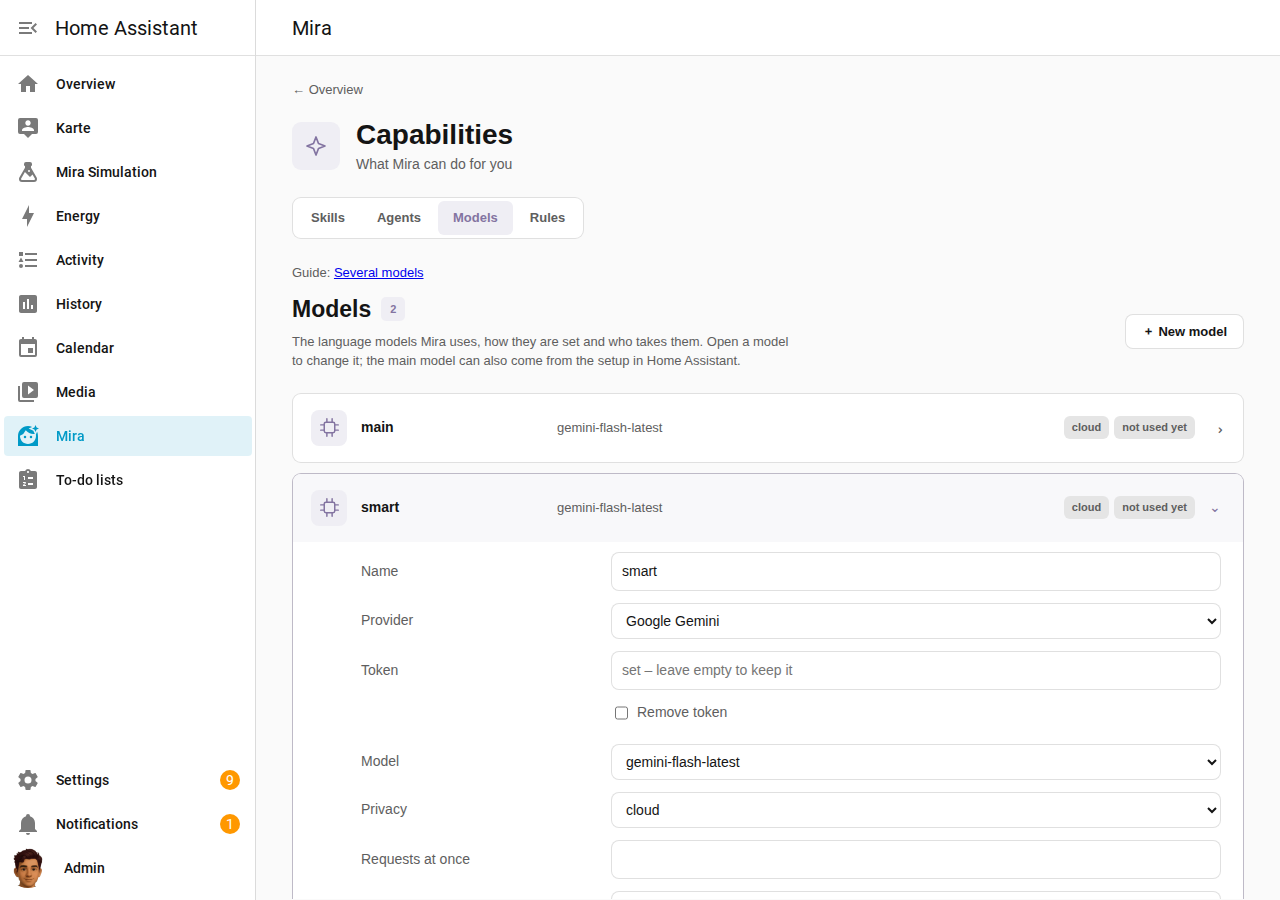
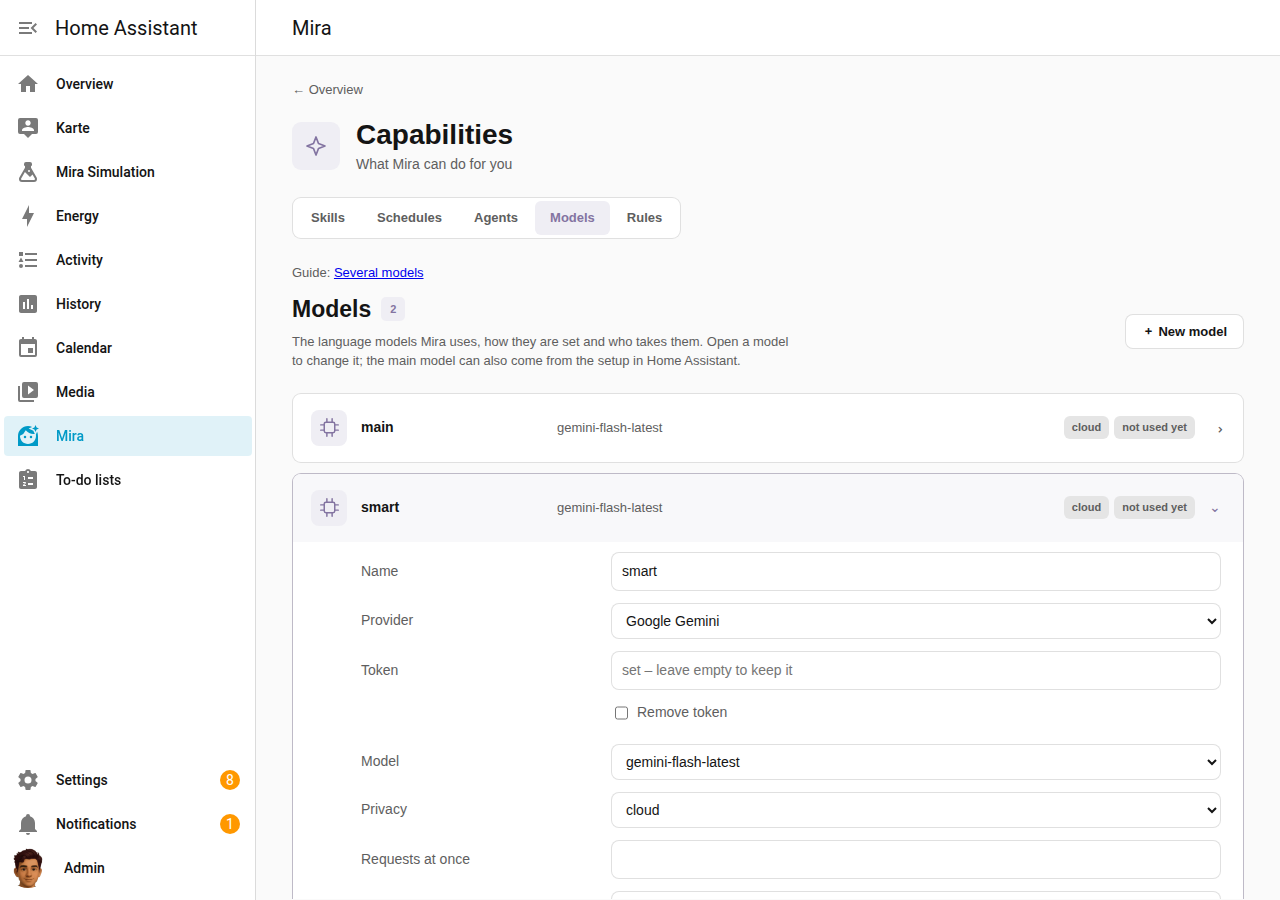
0.15.0: schedules page, backup and restore, several satellites per room
The guide gets the chapter "Schedules", the schedules of one's own skills
(name, description), the briefing's time on the page, the station's logo
on TECHO5, and new screenshots of the pages under Capabilities; the page
"Schedules" links its chapter. The example config shows a schedule's own
time. The specs say what 0.15.0 released.

diff --git a/internal/ui/index.html b/internal/ui/index.html
@@ -672,7 +672,7 @@ const I18N = {
   "page_chapters": { me: "## Wer spricht", messages: "## Mira meldet sich", tasks: "## Mira passt aufs Haus auf",
     plans: "### Ein Ablauf Schritt für Schritt", memory: "## Mira merkt sich", rooms: "## Einrichtung",
     persons: "## Wer spricht", notifier: "## Mira meldet sich", skills: "## Skills:", agents: "### Eigene Agenten",
-    models: "## Mehrere Modelle", hooks: "## Eigene Regeln" },
+    models: "## Mehrere Modelle", hooks: "## Eigene Regeln", schedules: "## Zeitplan:" },
   "home_satellites": n => n === 1 ? "1 Satellit" : `${n} Satelliten`,
   "home_persons": n => n === 1 ? "1 Person" : `${n} Personen`,
   "home_quiet": (a, b) => `Ruhezeit ${a}–${b}`,
@@ -1155,7 +1155,7 @@ const I18N = {
   "page_chapters": { me: "## Who is speaking", messages: "## Mira speaks up", tasks: "## Mira looks after the house",
     plans: "### A run step by step", memory: "## Mira remembers", rooms: "## Setup",
     persons: "## Who is speaking", notifier: "## Mira speaks up", skills: "## Skills:", agents: "### Your own agents",
-    models: "## Several models", hooks: "## Rules of your own" },
+    models: "## Several models", hooks: "## Rules of your own", schedules: "## Schedules:" },
   "home_satellites": n => n === 1 ? "1 satellite" : `${n} satellites`,
   "home_persons": n => n === 1 ? "1 person" : `${n} people`,
   "home_quiet": (a, b) => `Quiet hours ${a}–${b}`,

diff --git a/custom_components/mira/const.py b/custom_components/mira/const.py
@@ -4,7 +4,7 @@ DOMAIN = "mira"
 # The version of the code that runs: Home Assistant imports an integration
 # once, at start, so after files are replaced only a restart changes it.
 # Kept equal to manifest.json.
-VERSION = "0.14.1"
+VERSION = "0.15.0"
 
 CONF_PERSONA = "persona"
 # Mira's own web search, switched at the agent (docs/spec/web-search.md).

diff --git a/cmd/mira/main.go b/cmd/mira/main.go
@@ -24,7 +24,7 @@ import (
 // version is Mira's version: raised with every change that goes live, so
 // the web UI and /v1/health show at once which build runs. A release build
 // may still set it with -ldflags "-X main.version=...".
-var version = "0.14.1"
+var version = "0.15.0"
 
 func main() {
 	if err := run(); err != nil {

diff --git a/docs/guide/de.md b/docs/guide/de.md
@@ -201,6 +201,7 @@ Skills sind Zusatzfähigkeiten, die die Einrichtung freischaltet. Mira öffnet e
 - Morgens stellt Mira zusammen, was heute ist: Wetter, Termine, Müllabfuhr und, wenn du Themen angibst, zwei Schlagzeilen. Sie sagt es an, wenn das erste Mal jemand in einen Raum mit „beim Hereinkommen ansagen“ kommt, sonst leuchtet die Anzeige oder sie erwähnt es nebenbei. Abends kommt dasselbe für morgen, aber nur, wenn morgen etwas ansteht.
 - **Dein eigenes Briefing:** Erreicht Mira dich persönlich (dein Handy oder Telegram unter „Konfigurieren → Personen“, oder „allein zu Hause bin ich“), bekommst du morgens zusätzlich eine eigene Nachricht. Darin stehen deine Termine von heute, wenn du einen eigenen Kalender hast (einer, der so heißt wie dein Login-Name in Home Assistant oder wie du als Person; bei Login `stefan` also „Stefan“), und zwei Schlagzeilen zu deinen Themen, wenn Mira sie kennt: „Merk dir, mich interessieren der KSC und E-Autos.“ Hast du weder Termine noch Themen, kommt nichts.
 - „Was steht heute an?“ – „Was ist morgen los?“ – „Gib mir mein Briefing.“ Auf Nachfrage nimmt Mira auch deinen eigenen Kalender dazu, wenn sie weiß, wer spricht.
+- Wann die Briefings kommen, stellst du unter **Fähigkeiten → Zeitplan** ein (siehe „Zeitplan“).
 - In `mira.yaml` stehen beim Skill `briefing` die Kalender fürs Haus (`kalender`) und die Nachrichten-Themen (`themen`). Ohne `kalender` nimmt das Haus-Briefing alle freigegebenen Kalender, auch persönliche, und das ganze Haus hört deren Termine.
 
 **Pakete**: Mira liest die Versandmails der Paketdienste und weiß, wann welches Paket kommt.
@@ -295,6 +296,19 @@ sequence:
     response_variable: antwort
 ```
 
+## Zeitplan: was Mira von selbst tut
+
+Manche Skills melden sich zu festen Zeiten von selbst: das Morgen-Briefing um 5:30, die Müllabfuhr am Vorabend um 18 Uhr, die Unwetterwarnungen jede Stunde. Dazu kommt Miras eigener Job, der nachts aus dem Gedächtnis die Profile neu baut. Alles steht an einer Stelle: **Fähigkeiten → Zeitplan** (nur für Admins).
+
+![Fähigkeiten → Zeitplan: jeder Zeitplan mit Zeit und Schalter; aufgeklappt der letzte und der nächste Lauf, die Uhrzeit mit Wochentagen und „Jetzt ausführen“](img/mira-zeitplan-de.png)
+
+- **Jeder Zeitplan ist eine Karte**, sortiert nach Skill, Miras eigene zuletzt. Zugeklappt siehst du, was er tut, wann („Mo–Fr 06:45“, „stündlich“), wie der letzte Lauf ausging (✓ oder ✗ mit Uhrzeit) und den Schalter für an und aus.
+- **Aufgeklappt** stehen dort der **letzte Lauf** (erledigt mit dem, was Mira sagen wird, „nichts zu melden“ oder der Fehler; beim persönlichen Briefing für jede Person), der **nächste Lauf**, die **Uhrzeit mit den Wochentagen** zum Ändern und **Jetzt ausführen**, um ihn sofort auszuprobieren. Ein zweiter Lauf am selben Tag ersetzt die Nachricht des ersten, statt eine zweite zu schicken. Der Name des Skills führt zu seiner Karte unter **Skills**.
+- **Eine Änderung gilt sofort**, ohne Neustart. Sie steht in der `mira.yaml` beim Skill unter `schedules`, etwa `briefing: { schedules: { morgen: { cron: "45 6 * * 1-5" } } }`; ein ausgeschalteter Zeitplan hat dort `enabled: false` und behält seine Zeit. Ohne Eintrag gilt die Zeit des Skills, so bringt ein Update des Skills seine neue Zeit mit.
+- **Miras eigene Zeitpläne** lassen sich verschieben, aber nicht ausschalten.
+- Eine Zeit wie „jede Stunde“ lässt sich hier nicht als Uhrzeit einstellen; sie steht in Worten da, ändern geht nur in der `mira.yaml`. Ausschalten geht trotzdem.
+- Bei einem Skill unter **Skills** steht bei jedem Zeitplan **Ändern**; das führt hierher.
+
 ## Eigenen Skill erstellen
 
 Ein Skill ist ein Ordner mit einer Datei `SKILL.md`. Darin steht eine Anleitung für Mira, auf Wunsch mit Einstellungen und Zeitplänen. Ein Skill führt keinen Programmcode aus; er sagt Mira nur, was sie wann und womit tun soll, mit den Werkzeugen, die sie ohnehin hat (Kalender lesen, Nachrichten, Haussteuerung und so weiter).
@@ -307,7 +321,7 @@ Ein Skill ist ein Ordner mit einer Datei `SKILL.md`. Darin steht eine Anleitung 
 - `description`: ein Satz, wann der Skill gebraucht wird. Mehr sieht Mira nicht, bis sie den Skill öffnet; ist der Satz gut, öffnet sie ihn zur rechten Zeit.
 - Optional unter `metadata:` → `mira:`:
   - `settings`: Angaben, die jeder Haushalt selbst einträgt, jeweils mit einer `description` (die erscheint auch in Fehlermeldungen) und `required: true`, wenn der Skill ohne sie nicht arbeiten kann.
-  - `schedules`: Aufgaben nach Zeitplan. `cron` ist die Zeit (fünf Felder, zum Beispiel `0 10 * * 0` für sonntags um 10 Uhr), `task` ist, was Mira dann tun soll. Das Ergebnis ist entweder nichts (`importance: 0`, `spoken` leer) oder eine kurze Nachricht an das Haus. Mit `per_person: true` läuft die Aufgabe einmal für jede Person, die Mira persönlich erreicht (eigener Kanal oder „allein zu Hause bin ich“). Eingesetzt werden `{{person}}` (der Name), `{{person_login}}` (der Login-Name in Home Assistant, „-“ ohne) und `{{person_calendar}}` (der Kalender, der so heißt wie der Login-Name oder die Person; „-“ ohne). Mira gibt dazu, was sie über die Person weiß, und die Nachricht geht an diese Person statt ans Haus. Eine Nachricht aus einem Zeitplan ist höchstens „wichtig“ (2) und wartet nachts bis zum Morgen. Mit `urgent: true` darf der Zeitplan „dringend“ (3) melden: Das geht sofort an alle, auch in der Ruhezeit. Nimm das nur, wo es wirklich darauf ankommt, wie bei amtlichen Unwetterwarnungen.
+  - `schedules`: Aufgaben nach Zeitplan. `name` ist ein kurzer, fester Name (`morgen`) und `description` ein paar Worte für die Seite; mit `name` lässt sich der Zeitplan unter **Zeitplan** ändern und ausschalten. `cron` ist die Zeit (fünf Felder, zum Beispiel `0 10 * * 0` für sonntags um 10 Uhr), `task` ist, was Mira dann tun soll. Das Ergebnis ist entweder nichts (`importance: 0`, `spoken` leer) oder eine kurze Nachricht an das Haus. Mit `per_person: true` läuft die Aufgabe einmal für jede Person, die Mira persönlich erreicht (eigener Kanal oder „allein zu Hause bin ich“). Eingesetzt werden `{{person}}` (der Name), `{{person_login}}` (der Login-Name in Home Assistant, „-“ ohne) und `{{person_calendar}}` (der Kalender, der so heißt wie der Login-Name oder die Person; „-“ ohne). Mira gibt dazu, was sie über die Person weiß, und die Nachricht geht an diese Person statt ans Haus. Eine Nachricht aus einem Zeitplan ist höchstens „wichtig“ (2) und wartet nachts bis zum Morgen. Mit `urgent: true` darf der Zeitplan „dringend“ (3) melden: Das geht sofort an alle, auch in der Ruhezeit. Nimm das nur, wo es wirklich darauf ankommt, wie bei amtlichen Unwetterwarnungen.
   - `target`: macht aus dem Skill ein Anliegen über mehrere Gesprächszüge, mit Rückfragen oder als Ablauf Schritt für Schritt (siehe unten).
   - `mail`: macht aus dem Skill eine Mail-Anwendung (siehe unten).
   - `chapter`: das Kapitel dieser Anleitung zum Skill, so wie seine Überschrift beginnt (`"## Kochen und Backen"`, für einen Abschnitt `###`). Miras Seite zeigt beim Skill einen Link dorthin. In einer Übersetzung (`SKILL.en.md`) steht das Kapitel der englischen Anleitung.
@@ -362,7 +376,7 @@ skills:
     pflanzen: "Farn jeden Sonntag, Kaktus am ersten Sonntag im Monat"
 ```
 
-Danach Mira neu starten. „Wann muss der Kaktus gegossen werden?“ beantwortet sie aus der Liste, und sonntags um 10 Uhr meldet sie sich von selbst. Den Zeitplan probierst du mit `mira skill blumen` sofort aus.
+Danach Mira neu starten. „Wann muss der Kaktus gegossen werden?“ beantwortet sie aus der Liste, und sonntags um 10 Uhr meldet sie sich von selbst. Den Zeitplan probierst du unter **Zeitplan** mit **Jetzt ausführen** oder mit `mira skill blumen` sofort aus.
 
 **Wenn etwas nicht stimmt:** Mira startet trotzdem, nur der betroffene Skill läuft nicht. Im Log steht `skill not started` mit einem Satz, was falsch ist, zum Beispiel „Die Einstellung „pflanzen“ fehlt in der mira.yaml unter skills.blumen“. Dieselbe Meldung zeigt Home Assistant unter Einstellungen → System → **Reparaturen**. Nach der Korrektur startest du Mira neu; die Meldung verschwindet, sobald der Skill läuft.
 
@@ -585,7 +599,7 @@ Mira nutzt die Kalender und To-do-Listen aus Home Assistant, die für Assist fre
 
 ## Radio hören
 
-„Spiel SWR3.“ – „Mach im Wohnzimmer das Radio an.“ Mira sucht den Sender im Radio Browser von Home Assistant, der immer dabei ist, und spielt ihn auf dem Lautsprecher des Raums. Der Lautsprecher muss für Assist freigegeben sein (Einstellungen → Sprachassistenten → Entitäten freigeben). Findet sie mehrere passende Sender, nennt sie ein paar und fragt, welcher es sein soll. Lauter, leiser und Pause gehen wie bei jedem Medienspieler.
+„Spiel SWR3.“ – „Mach im Wohnzimmer das Radio an.“ Mira sucht den Sender im Radio Browser von Home Assistant, der immer dabei ist, und spielt ihn auf dem Lautsprecher des Raums. Der Lautsprecher muss für Assist freigegeben sein (Einstellungen → Sprachassistenten → Entitäten freigeben). Findet sie mehrere passende Sender, nennt sie ein paar und fragt, welcher es sein soll. Lauter, leiser und Pause gehen wie bei jedem Medienspieler. Ein Satellit mit TECHO5 (ab Version 1.6.16) zeigt dabei den Namen und das Logo des Senders und den laufenden Titel.
 
 ▶ [Das Lieblingsradio: Mira fragt nach dem Sender, merkt ihn sich und spielt ihn](https://mira-assist.com/videos/mira-chat-de.mp4#t=717)
 
@@ -698,7 +712,7 @@ Die **Übersicht** zeigt vier Karten. Jede nennt kurz, was gerade los ist, und f
 
 - **Aktuell**: **Nachrichten** (offene und zugestellte ansehen und quittieren), **Aufgaben** (an/aus, Probelauf, Protokoll, löschen, „In Home Assistant bearbeiten“), **Pläne** (laufende Abläufe wie ein Rezept) und **Gedächtnis** (das des Hauses und dein eigenes; bearbeiten, vergessen, als Datei exportieren und importieren).
 - **Einrichtung**: **Satelliten** und **Personen** (alle aus Home Assistant, mit dem, was Mira zusätzlich braucht; siehe unten) und **Benachrichtigung** (Ruhezeit, Pausen, Eskalation, Vertrauliches, dringende Nachrichten).
-- **Fähigkeiten**: **Skills** (welche laufen, mit Einstellungen, Zeitplänen und Anleitung), **Agenten** (Miras eigene und deine, mit Modell und wer sie aufruft, darunter die letzten Läufe) und **Modelle** (welche Mira nutzt; **Jetzt prüfen** schickt eine echte kleine Anfrage und zeigt, ob und wie schnell das Modell antwortet).
+- **Fähigkeiten**: **Skills** (welche laufen, mit Einstellungen, Zeitplänen und Anleitung), **Zeitplan** (was Mira wann von selbst tut, mit letztem Lauf; siehe „Zeitplan“), **Agenten** (Miras eigene und deine, mit Modell und wer sie aufruft, darunter die letzten Läufe) und **Modelle** (welche Mira nutzt; **Jetzt prüfen** schickt eine echte kleine Anfrage und zeigt, ob und wie schnell das Modell antwortet).
 - **Anleitung**: diese Seite, mit Sprüngen zu den wichtigsten Kapiteln.
 
 ![Die Übersicht: Aktuell, Einrichtung, Fähigkeiten und Anleitung](img/mira-uebersicht-de.png)

diff --git a/docs/guide/en.md b/docs/guide/en.md
@@ -197,6 +197,7 @@ Skills are extra abilities the setup switches on. Mira opens a skill only when a
 - In the morning Mira puts together what is on today: weather, appointments, waste collection and, if you name topics, two headlines. She says it the first time someone enters a room with "announce on entry"; otherwise the indicator lights up or she mentions it in passing. In the evening the same comes for tomorrow, but only when something is on tomorrow.
 - **Your own briefing:** if Mira can reach you personally (your phone or Telegram under "Configure → Persons", or "alone at home is me"), you also get a message of your own in the morning. It has your appointments for today if you have a calendar of your own (one named like your Home Assistant login or like you as a person; with the login `stefan`, "Stefan"), and two headlines on your topics if Mira knows them: "Remember that I'm interested in football and electric cars." With neither, nothing comes.
 - "What's on today?" – "What's on tomorrow?" – "Give me my briefing." On request Mira adds your own calendar too when she knows who is speaking.
+- When the briefings come is set under **Capabilities → Schedules** (see "Schedules").
 - In `mira.yaml` the skill `briefing` names the house's calendars (`kalender`) and the news topics (`themen`). Without `kalender` the house briefing reads every exposed calendar, personal ones too, and the whole house hears their appointments.
 
 **Parcels** (skill `pakete`): Mira reads the shipping mails of the parcel services and knows when which parcel comes.
@@ -291,6 +292,19 @@ sequence:
     response_variable: antwort
 ```
 
+## Schedules: what Mira does by herself
+
+Some skills speak up by themselves at fixed times: the morning briefing at 5:30, the waste collection the evening before at 6 pm, the severe weather warnings every hour. Then there is Mira's own job that rebuilds the profiles from her memory at night. All of them are in one place: **Capabilities → Schedules** (admins only).
+
+![Capabilities → Schedules: each schedule with its time and switch; opened, the last and the next run, the time with weekdays and "Run now"](img/mira-zeitplan-en.png)
+
+- **Each schedule is a card**, by skill, Mira's own last. Closed, it shows what it does, when ("Mon–Fri 06:45", "hourly"), how the last run went (✓ or ✗ with its time) and the switch for on and off.
+- **Opened** it has the **last run** (done with what Mira will say, "nothing to report" or the error; for the personal briefing per person), the **next run**, the **time with the weekdays** to change, and **Run now** to try it at once. A second run on the same day replaces the first one's message instead of sending another. The skill's name leads to its card under **Skills**.
+- **A change holds at once**, without a restart. It is in `mira.yaml` with the skill under `schedules`, such as `briefing: { schedules: { morgen: { cron: "45 6 * * 1-5" } } }`; a schedule switched off has `enabled: false` there and keeps its time. Without an entry the skill's time holds, so an update of the skill brings its new time.
+- **Mira's own schedules** can be moved, not switched off.
+- A time such as "every hour" cannot be set here as a time of day; it is shown in words and changed in `mira.yaml` only. Switching it off works all the same.
+- A skill under **Skills** has **Change** at each of its schedules; it leads here.
+
 ## Creating your own skill
 
 A skill is a folder with a file `SKILL.md`. It holds instructions for Mira, optionally with settings and schedules. A skill runs no program code; it only tells Mira what to do, when and with what, using the tools she already has (reading calendars, messages, controlling the house and so on).
@@ -303,7 +317,7 @@ A skill is a folder with a file `SKILL.md`. It holds instructions for Mira, opti
 - `description`: one sentence on when the skill is needed. That is all Mira sees until she opens the skill; a good sentence makes her open it at the right time.
 - Optionally under `metadata:` → `mira:`:
   - `settings`: values every household fills in itself, each with a `description` (it also appears in error messages) and `required: true` if the skill cannot work without it.
-  - `schedules`: jobs on a schedule. `cron` is the time (five fields, for example `0 10 * * 0` for Sundays at 10), `task` is what Mira should do then. The result is either nothing (`importance: 0`, `spoken` empty) or a short message to the house. With `per_person: true` the job runs once for each person Mira can reach personally (a channel of their own, or "alone at home is me"). Filled in are `{{person}}` (the name), `{{person_login}}` (the Home Assistant login, "-" without one) and `{{person_calendar}}` (the calendar named like the login or the person; "-" without one). Mira adds what she knows about the person, and the message goes to that person instead of the house. A message from a schedule is at most "important" (2) and waits at night until the morning. With `urgent: true` the schedule may report "urgent" (3): that goes to everyone at once, in quiet hours too. Use it only where it really matters, as for official severe weather warnings.
+  - `schedules`: jobs on a schedule. `name` is a short fixed name (`morgen`) and `description` a few words for the page; with a `name` the schedule can be changed and switched off under **Schedules**. `cron` is the time (five fields, for example `0 10 * * 0` for Sundays at 10), `task` is what Mira should do then. The result is either nothing (`importance: 0`, `spoken` empty) or a short message to the house. With `per_person: true` the job runs once for each person Mira can reach personally (a channel of their own, or "alone at home is me"). Filled in are `{{person}}` (the name), `{{person_login}}` (the Home Assistant login, "-" without one) and `{{person_calendar}}` (the calendar named like the login or the person; "-" without one). Mira adds what she knows about the person, and the message goes to that person instead of the house. A message from a schedule is at most "important" (2) and waits at night until the morning. With `urgent: true` the schedule may report "urgent" (3): that goes to everyone at once, in quiet hours too. Use it only where it really matters, as for official severe weather warnings.
   - `target`: turns the skill into a concern over several turns, with questions back or as a run step by step (see below).
   - `mail`: turns the skill into a mail application (see below).
   - `chapter`: the chapter of this guide about the skill, as its heading begins (`"## Cooking and baking"`, `###` for a section). Mira's page shows a link to it with the skill. A skill written in German names the German guide's chapter; its translation (`SKILL.en.md`) names the English one.
@@ -358,7 +372,7 @@ skills:
     plants: "fern every Sunday, cactus on the first Sunday of the month"
 ```
 
-Then restart Mira. She answers "When does the cactus need water?" from the list, and on Sundays at 10 she speaks up by herself. You can try the schedule right away with `mira skill plants`.
+Then restart Mira. She answers "When does the cactus need water?" from the list, and on Sundays at 10 she speaks up by herself. You can try the schedule right away with **Run now** under **Schedules**, or with `mira skill plants`.
 
 **When something is wrong:** Mira starts anyway; only the affected skill does not run. The log has `skill not started` with a sentence saying what is wrong, for example "The setting "plants" is missing in mira.yaml under skills.blumen". Home Assistant shows the same message under Settings → System → **Repairs**. After fixing it, restart Mira; the message disappears once the skill runs.
 
@@ -575,7 +589,7 @@ Mira uses the calendars and to-do lists from Home Assistant that are exposed to 
 
 ## Listening to the radio
 
-"Play SWR3." – "Turn on the radio in the living room." Mira searches the station in Home Assistant's Radio Browser, which is always there, and plays it on the room's speaker. The speaker has to be exposed to Assist (Settings → Voice assistants → Expose entities). If several stations fit, she names a few and asks which one. Louder, quieter and pause work like on any media player.
+"Play SWR3." – "Turn on the radio in the living room." Mira searches the station in Home Assistant's Radio Browser, which is always there, and plays it on the room's speaker. The speaker has to be exposed to Assist (Settings → Voice assistants → Expose entities). If several stations fit, she names a few and asks which one. Louder, quieter and pause work like on any media player. A satellite with TECHO5 (version 1.6.16 or later) shows the station's name and logo and the song playing.
 
 ## Phone calls
 
@@ -674,7 +688,7 @@ The **Overview** shows four cards. Each says briefly what is going on and leads 
 
 - **Day to day**: **Messages** (see open and delivered ones and mark them done), **Tasks** (on/off, dry run, log, delete, "Edit in Home Assistant"), **Plans** (running step-by-step runs such as a recipe) and **Memory** (the house's and your own; edit, forget, export and import as a file).
 - **Setup**: **Satellites** and **People** (all of them from Home Assistant, with what Mira needs on top; see below) and **Notifications** (quiet hours, pauses, escalation, confidential and urgent messages).
-- **Capabilities**: **Skills** (which run, with settings, schedules and instructions), **Agents** (Mira's own and yours, with model and who calls them, the latest runs below) and **Models** (which ones Mira uses; **Check now** sends a real small request and shows whether and how fast the model answers).
+- **Capabilities**: **Skills** (which run, with settings, schedules and instructions), **Schedules** (what Mira does by herself and when, with the last run; see "Schedules"), **Agents** (Mira's own and yours, with model and who calls them, the latest runs below) and **Models** (which ones Mira uses; **Check now** sends a real small request and shows whether and how fast the model answers).
 - **Guide**: this page, with jumps to the main chapters.
 
 ![The overview: Day to day, Setup, Capabilities and Guide](img/mira-uebersicht-en.png)

diff --git a/app/CHANGELOG.md b/app/CHANGELOG.md
@@ -3,6 +3,17 @@
 The app has the version of Mira's release; what changed is in the release notes:
 <https://github.com/miraassist/mira/releases>
 
+## 0.15.0
+
+- New page **Capabilities → Schedules**: every schedule of the skills and Mira's own, with the last run and what came
+  of it, the next run, the time with weekdays, a switch, and "Run now". A change holds at once and goes into
+  `mira.yaml`.
+- Mira's data goes into Home Assistant's backups through the integration; after a restore of Home Assistant a repair
+  offers to restore Mira's data. The app's own backup leaves the database out.
+- A satellite without an area is reported as a repair; a room may have several satellites, with a main satellite.
+- "Spiel SWR3" shows the station's name and logo on a TECHO5 satellite.
+- People are shown with their picture from Home Assistant.
+
 ## 0.14.1
 
 - The persona set in the integration's options is saved again: it goes into `mira.yaml` under `prompt: persona:`.

diff --git a/docs/spec/voicemail.md b/docs/spec/voicemail.md
@@ -1,6 +1,6 @@
 # The answering machine at the satellite – Spec
 
-Status 2026-10-29: built (steps 1 to 4), not released. Scenarios: [voicemail.feature](voicemail.feature). Builds on
+Status 2026-10-29: built (steps 1 to 4), released in 0.14.0. Scenarios: [voicemail.feature](voicemail.feature). Builds on
 the integration Mira FRITZ!Box ([miraassist/mira-fritz](https://github.com/miraassist/mira-fritz), its spec
 `docs/spec/fritz.md`) and on the indicators of [Messages](messages.md).
 

diff --git a/docs/spec/schedules.md b/docs/spec/schedules.md
@@ -1,6 +1,6 @@
 # Schedules on Mira's page – spec
 
-Status 2026-11-01: steps 1–3 built, not released. Scenarios: [schedules.feature](schedules.feature). Builds on
+Status 2026-11-01: built (steps 1–3), released in 0.15.0. Scenarios: [schedules.feature](schedules.feature). Builds on
 [Skills and agents at a glance](overview.md) (the page, read only so far) and
 [Editing models, agents and skills](editing.md) (a skill's entry in `mira.yaml`).
 

diff --git a/docs/spec/backup.md b/docs/spec/backup.md
@@ -1,6 +1,6 @@
 # Backup and restore – spec
 
-Status 2026-11-01: built (steps 1–4), not released. Scenarios: [backup.feature](backup.feature). Builds on Home Assistant's
+Status 2026-11-01: built (steps 1–4), released in 0.15.0. Scenarios: [backup.feature](backup.feature). Builds on Home Assistant's
 backups (Settings → System → Backups) and on [The interface between the integration and the service](ha-integration.md).
 
 ## Goal

diff --git a/docs/spec/satellites-rooms.md b/docs/spec/satellites-rooms.md
@@ -1,6 +1,6 @@
 # Satellites and rooms – spec
 
-Status 2026-10-31: steps 1–4 built, not released. Scenarios: [satellites-rooms.feature](satellites-rooms.feature).
+Status 2026-10-31: built (steps 1–4), released in 0.15.0. Scenarios: [satellites-rooms.feature](satellites-rooms.feature).
 Builds on [Mira in Home Assistant](ha-integration.md), "Rooms are satellites"; it replaces the rule "one satellite per
 area" there.
 

diff --git a/docs/spec/phone.md b/docs/spec/phone.md
@@ -1,6 +1,6 @@
 # Phone calls
 
-Status 2026-10-29: built, released in 0.7.0; the phone book comes from Mira FRITZ!Box since 2026-10-29 (not released yet). Scenarios: [phone.feature](phone.feature).
+Status 2026-10-29: built, released in 0.7.0; the phone book comes from Mira FRITZ!Box since 2026-10-29 (released in 0.14.0). Scenarios: [phone.feature](phone.feature).
 
 ## Goal
 

diff --git a/docs/spec/radio.md b/docs/spec/radio.md
@@ -1,6 +1,6 @@
 # Radio – Spec
 
-Status 2026-11-01: decided and built in 0.6.37; step 2 (the station's name on the device) built, not released.
+Status 2026-11-01: decided and built in 0.6.37; step 2 (the station's name on the device) released in 0.15.0.
 Scenarios of step 2: [radio.feature](radio.feature).
 
 ## Target
